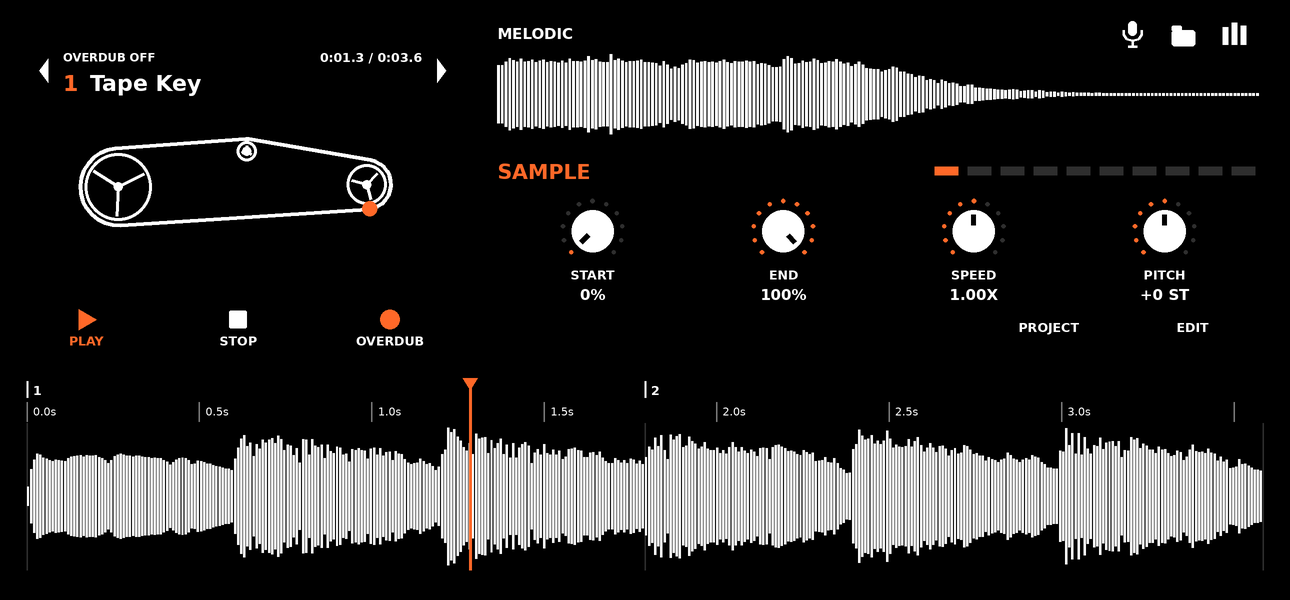
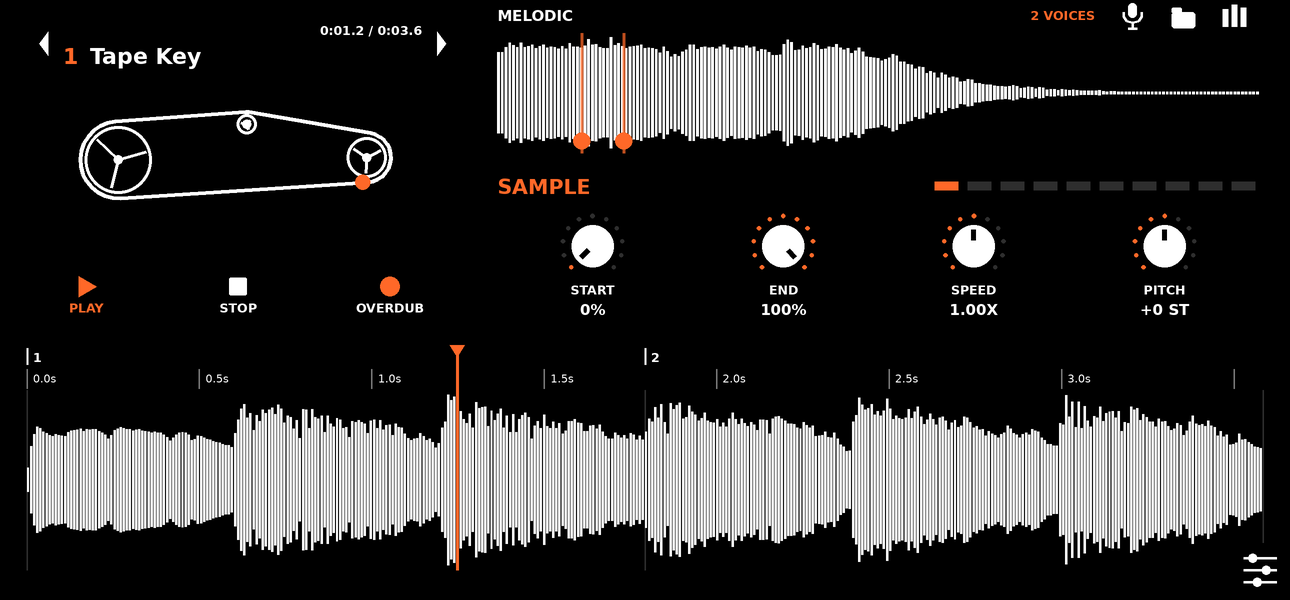
Deck: view-switch pictogram, PROJECT muted, bigger sample view, shrinking voice dots, still tape without a loop; fix: every track gets its settings at start (release); FM-1 page LEDs resent

diff --git a/engine/ui/SamplerUI.cpp b/engine/ui/SamplerUI.cpp
@@ -157,9 +157,10 @@ void SamplerUI::sampleView(Rect r) {
         const float pos = (i + 0.5f) / bins, v = std::min(1.f, pk[(size_t)i] * 1.1f);
         rrect({w.x + i * bw, cy - std::max(1.f, v * (w.h / 2 - 1)), std::max(1.f, bw - 0.6f), std::max(2.f, v * (w.h - 2))}, 0, pos >= ts.start && pos <= ts.end ? kPaper : kLine);
     }
-    for (int j = 0; j < nv; j++) {
-        const float vx = w.x + std::min(1.f, std::max(0.f, st_.voicePos[t][j])) * w.w;
-        line(vx, w.y, vx, w.y + w.h, kOrange, 2);
+    for (int j = 0; j < nv; j++) {   // a voice: a line and a dot that shrink as its envelope dies away
+        const float vx = w.x + std::min(1.f, std::max(0.f, st_.voicePos[t][j])) * w.w, lv = clamp01(st_.voiceLvl[t][j]);
+        line(vx, w.y, vx, w.y + w.h, theme::argb(255, 104, 40, 70 + (int)(185 * lv)), 1 + 1.5f * lv);
+        circle(vx, w.y + w.h - 8, 1.5f + 6.5f * lv, kOrange);
     }
 }
 
@@ -186,7 +187,7 @@ void SamplerUI::cassette(Rect c) {
     const bool recNow = st_.freeRecording || st_.track_clip_rec[t];
     const int mic = app_.micState();
     // label: paper strip with a coloured edge, the sample name, the counter
-    Rect lb{c.x + 4, c.y + 12, c.w - 8, 50};
+    Rect lb{c.x + 4, c.y + 6, c.w - 8, 50};
     std::string title = app_.sampleLabel(t), sub;
     if (title.empty()) title = "EMPTY TRACK";
     if (mic == 1) { title = "WAITING FOR SOUND"; sub = "MICROPHONE  " + num("%.0f DB", 20 * std::log10(app_.micThreshold())); }
@@ -252,7 +253,7 @@ void SamplerUI::cassette(Rect c) {
         }
         x = segs[0].x0; y = segs[0].y0;
     };
-    const float turn = hasLoop ? lp : st_.freeRecording ? std::fmod((float)now_ / 2500.f, 1.f) : 0.f;
+    const float turn = hasLoop ? lp : 0.f;   // without a loop the tape stands still
     const uint32_t tapeCol = recNow ? kOrange : kPaper;
     for (const Seg& g : segs) {
         if (!g.arc) { line(g.x0, g.y0, g.x1, g.y1, tapeCol, 2.5f); continue; }
@@ -330,10 +331,10 @@ void SamplerUI::key(Rect r, const std::string& label, int icon, bool on, std::fu
 void SamplerUI::deck(Rect r) {
     rrect({0, 0, W_, H_}, 0, kBg);
     const bool recOn = st_.freeRecording || st_.track_clip_rec[app_.track()], armed = st_.freeArmed;
-    const float top = 12, ch = 170, cw = std::min(ch * 1.75f, W_ * 0.42f);
+    const float top = 0, ch = 170, cw = std::min(ch * 1.75f, W_ * 0.42f);
     const float cxl = 10, zr = W_ - 20, x0 = cxl + cw + 24, w0 = zr - x0;
     cassette({cxl, top, cw, ch});
-    const float vh = 78;
+    const float vh = 100;
     sampleView({x0, top + 2, w0, vh});
     const float py = top + vh + 24;
     text(x0, py, 15, kOrange, SamplerApp::pageName(app_.page()), 0, true);
@@ -344,15 +345,20 @@ void SamplerUI::deck(Rect r) {
     }
     for (int i = 0; i < 4; i++) knob(x0 + w0 * (i + 0.5f) / 4, py + 40, app_.page(), i);
     // transport under the cassette: PLAY, STOP, REC / OVERDUB; PROJECT and EDIT at the right end of the same row
-    const float ty = 200, kh = 36, tg = 6, tkw = (cw - 2 * tg) / 3;
+    const float ty = top + ch + 8, kh = 36, tg = 6, tkw = (cw - 2 * tg) / 3;
     key({cxl, ty, tkw, kh}, "PLAY", 1, st_.playing, [this] { app_.transportSet(true); }, false);
     key({cxl + tkw + tg, ty, tkw, kh}, "STOP", 4, false, [this] { app_.transportSet(false); }, false);
     key({cxl + 2 * (tkw + tg), ty, tkw, kh}, app_.loopExists() ? "OVERDUB" : "REC", 3, recOn, [this] { app_.loopRecord(); }, false);
     if (armed && (now_ / 400) % 2 == 0) rrect({cxl + 2 * (tkw + tg), ty + kh - 3, tkw, 3}, 0, kOrange);
-    key({zr - 2 * 90 - tg, ty, 90, kh}, "PROJECT", 0, projectOpen_, [this] { projectOpen_ = true; clearArmed_ = 0; }, false);
-    key({zr - 90, ty, 90, kh}, "EDIT", 0, false, [this] { editor_ = true; }, false);
+    // (the PROJECT key is muted for now: projectSheet() stays, nothing opens it)
     const float tl = ty + kh + 10;
     timeline({12, tl, W_ - 24, H_ - 12 - tl});
+    {   // the view switch: a pictogram of sliders in the bottom right corner opens the editor
+        const float sx = W_ - 20, sy = H_ - 20;
+        rrect({sx - 18, sy - 18, 36, 36}, 0, kBg);
+        for (int i = 0; i < 3; i++) { line(sx - 11, sy - 8 + i * 8, sx + 11, sy - 8 + i * 8, kPaper, 1.6f); circle(sx - 5 + (i == 1 ? 9 : i == 2 ? 3 : 0), sy - 8 + i * 8, 3, kPaper); }
+        tap({sx - 28, sy - 28, 56, 56}, [this] { editor_ = true; });
+    }
 }
 
 void SamplerUI::trackList(Rect r) {

diff --git a/engine/tools/test_app.cpp b/engine/tools/test_app.cpp
@@ -18,12 +18,19 @@ int main() {
     const int sr = SAMPLERATE;
     system("rm -rf /tmp/fm1sampler_t2; mkdir -p /tmp/fm1sampler_t2");
     Session s(sr); s.setDataDir("/tmp/fm1sampler_t2"); s.setSampleDir(std::string(getenv("HOME")) + "/fm1-sampler/samples");
-    SamplerApp app(s, [](const uint8_t*, size_t) {});
+    uint64_t ledMask = 0; int ledFrames = 0;   // the last LED frame the FM-1 got (SysEx 01)
+    SamplerApp app(s, [&](const uint8_t* m, size_t n) {   // frames come packed: F0 7D D A W 1 10 { len(2x7bit) cmd payload }... F7
+        if (n < 9 || m[6] != 10) return;
+        for (size_t i = 7; i + 3 < n;) { const size_t sub = (size_t)m[i] << 7 | m[i + 1]; if (sub < 1 || i + 2 + sub > n) break;
+            if (m[i + 2] == 1 && sub == 7) { ledMask = 0; for (int k = 0; k < 6; k++) ledMask |= (uint64_t)(m[i + 3 + k] & 127) << (7 * k); ledFrames++; }
+            i += 2 + sub; }
+    });
     std::vector<float> buf(512), in(512, 0.f), all; uint32_t now = 0;
     auto run = [&](double sec) { for (long i = 0; i < (long)(sec * sr) / 256; i++) { std::fill(buf.begin(), buf.end(), 0.f); s.process(buf.data(), in.data(), 256); std::this_thread::sleep_for(std::chrono::microseconds(200)); all.insert(all.end(), buf.begin(), buf.end()); if (i % 5 == 0) { now += 33; app.tick(now); } } };
     auto rmsFrom = [&](size_t from) { double a = 0; size_t n = 0; for (size_t i = from; i < all.size(); i++) { a += all[i] * all[i]; n++; } return n ? std::sqrt(a / n) : 0.0; };
     auto enc = [&](int i, int d) { uint8_t m[3] = {0xb0, (uint8_t)(16 + i), (uint8_t)(64 + d)}; app.onMidi(m, 3); };
     auto btn = [&](int b) { uint8_t m[3] = {0x91, (uint8_t)b, 100}; app.onMidi(m, 3); m[0] = 0x81; app.onMidi(m, 3); };
+    auto pageLed = [&](int b) { return (ledMask >> b & 1) != 0; };
     auto play = [&](int note, double sec) { size_t m = all.size(); app.playNote(note, true); run(sec); app.playNote(note, false); run(0.3); return rmsFrom(m); };
     run(2.5);
     CHECK(app.hasSample(0) && app.hasSample(1) && app.hasSample(2) && app.hasSample(3), "four default tracks load (%s, %s, %s, %s)", app.sampleLabel(0).c_str(), app.sampleLabel(1).c_str(), app.sampleLabel(2).c_str(), app.sampleLabel(3).c_str());
@@ -74,6 +81,10 @@ int main() {
     app.loopClear(); run(0.3);
     CHECK(!app.loopExists(), "PROJECT menu: clear all loops");
     { bool any = false; for (int t = 0; t < 8; t++) any |= app.status().track_has_clip[t]; CHECK(!any, "...and every other track's loop"); }
+    { constexpr int FXB = SamplerApp::FX, ENVB = SamplerApp::ENV;
+      btn(FXB); run(0.6); const bool fx1 = pageLed(FXB) && !pageLed(SamplerApp::HOME);
+      btn(ENVB); run(0.6); CHECK(fx1 && pageLed(ENVB) && !pageLed(FXB), "FM-1 LEDs: pressing another page button moves the light (ENV lit, FX dark)");
+      const int before = ledFrames; ledMask = 0; run(1.0); CHECK(ledFrames > before && pageLed(ENVB), "FM-1 LEDs are resent periodically (the firmware may clear them)"); }
     // microphone sample
     btn(SamplerApp::SAVE);
     enc(2, 1); run(0.3); CHECK(app.micState() == 1, "mic sampling waits for sound");

diff --git a/engine/session/Session.cpp b/engine/session/Session.cpp
@@ -84,7 +84,7 @@ struct Session::Impl {
     std::atomic<int> a_bars{4}, a_sampleState{0}, a_sampleTrack{0}, a_sampleVersion{0}, a_sampleFails{0};
     std::atomic<int32_t> a_loop{0};
     std::atomic<float> a_clipPos{0.f}, a_lfo[kTracks];
-    std::atomic<int> a_voiceN[kTracks]; std::atomic<float> a_voicePos[kTracks][kVoiceMax];
+    std::atomic<int> a_voiceN[kTracks]; std::atomic<float> a_voicePos[kTracks][kVoiceMax], a_voiceLvl[kTracks][kVoiceMax];
 
     std::vector<float> bus, tmp, sendBus[2], wet;
 
@@ -306,8 +306,8 @@ struct Session::Impl {
                     if (e.vel) t.sampler->noteOn(e.note, e.vel); else t.sampler->noteOff(e.note);
                 }
                 if (cur < n) t.sampler->render(bus.data() + 2 * cur, n - cur);
-                float vp[kVoiceMax]; const int vn = t.sampler->voicePositions(vp, kVoiceMax);
-                for (int i = 0; i < vn; i++) a_voicePos[ti][i].store(vp[i]);
+                float vp[kVoiceMax], vl[kVoiceMax]; const int vn = t.sampler->voicePositions(vp, kVoiceMax, vl);
+                for (int i = 0; i < vn; i++) { a_voicePos[ti][i].store(vp[i]); a_voiceLvl[ti][i].store(vl[i]); }
                 a_voiceN[ti].store(vn);
             } else a_voiceN[ti].store(0);
             if (t.filtOn) for (int i = 0; i < n; i++) { bus[2 * i] = t.filt.process(0, bus[2 * i]); bus[2 * i + 1] = t.filt.process(1, bus[2 * i + 1]); }
@@ -593,7 +593,7 @@ Session::Status Session::status() const {
         s.track_peak[i] = d->tracks[(size_t)i]->peak;
         s.track_has_clip[i] = cm >> i & 1; s.track_clip_rec[i] = rm >> i & 1;
         s.clipPos[i] = d->a_clipPos; s.lfoValue[i] = d->a_lfo[i];
-        s.voiceN[i] = std::min(kVoiceMax, d->a_voiceN[i].load()); for (int j = 0; j < s.voiceN[i]; j++) s.voicePos[i][j] = d->a_voicePos[i][j];
+        s.voiceN[i] = std::min(kVoiceMax, d->a_voiceN[i].load()); for (int j = 0; j < s.voiceN[i]; j++) { s.voicePos[i][j] = d->a_voicePos[i][j]; s.voiceLvl[i][j] = d->a_voiceLvl[i][j]; }
     }
     s.freeRecording = d->a_free; s.freeArmed = d->a_freeArmed; s.freeSeconds = d->a_freeSec;
     s.sampleState = d->a_sampleState; s.sampleTrack = d->a_sampleTrack; s.sampleSeconds = d->a_sampleSec; s.inputPeak = d->a_inPeak;

diff --git a/engine/app/SamplerApp.cpp b/engine/app/SamplerApp.cpp
@@ -383,6 +383,7 @@ void SamplerApp::onSysex(const uint8_t* m, size_t n) {
     else if (m[6] == 0x42) needClear_ = true;     // the firmware had its own screen up: repaint everything
 }
 void SamplerApp::button(int b, bool down) {
+    lastLed_ = ~0ull;   // the firmware's own LED handling must not win: the active page stays lit, the others go dark
     if (down) held_ |= 1u << b; else held_ &= ~(1u << b);
     if (b == SAVE) {   // only the LOOP page: saving and clearing loops lives in the phone's PROJECT menu
         if (down) page_ = P_SAVE;
@@ -429,7 +430,7 @@ void SamplerApp::tick(uint32_t now) {
     if (auditionAt_ && now >= auditionAt_) loadEntry(libCursor_);
     if (st_.sampleVersion != lastSampleVersion_) {   // a sample landed on a track: give it this track's settings
         lastSampleVersion_ = st_.sampleVersion;
-        applyAll(st_.sampleTrack);
+        for (int i = 0; i < kTracks; i++) if (hasSample(i)) applyAll(i);   // several samples can land between two ticks (start-up): every track gets its settings, not only the last
         if (previewAfterLoad_ && st_.sampleTrack == track_) { previewAfterLoad_ = false; previewNote_ = 60; previewTrack_ = track_; s_.noteOn(track_, 60, 100); previewOffAt_ = now + 900; }
     }
     if (st_.sampleFails != lastSampleFails_) { lastSampleFails_ = st_.sampleFails; say("COULD NOT LOAD THE FILE"); }
@@ -528,11 +529,11 @@ void SamplerApp::leds() {
         if (note < 0 || note > 127) on = false;
         if (on) m |= 1ull << (14 + k);
     }
-    if (m == lastLed_) return;
-    lastLed_ = m;
+    if (m == lastLed_ && nowMs_ - ledAt_ < 400) return;
+    lastLed_ = m; ledAt_ = nowMs_;
     std::vector<uint8_t> p(6);
     for (int i = 0; i < 6; i++) p[i] = (uint8_t)(m >> (7 * i) & 127);
-    sysex(1, p);
+    sysex(1, p, true, 900);   // keyed: a newer state replaces an older one still waiting in the queue
 }
 
 // ---- screen ----

diff --git a/engine/tools/phone_render.cpp b/engine/tools/phone_render.cpp
@@ -51,7 +51,7 @@ int main(int argc, char** argv) {
     tab(8); ui.frame(now); dump("loop");
     tab(9); ui.frame(now); dump("len");
     tab(0);
-    app.playNote(60, true); app.playNote(67, true); run(0.5); ui.frame(now); dump("voices"); app.playNote(60, false); app.playNote(67, false); run(0.3);
+    app.playNote(60, true); app.playNote(67, true); run(0.5); ui.frame(now); dump("voices"); ui.setEditor(false); ui.frame(now); dump("deck_voices"); ui.setEditor(true); app.playNote(60, false); app.playNote(67, false); run(0.3);
     tapAt(60, 100); run(1.0); ui.frame(now); dump("track2");
     app.micSample(); in.assign(512, 0.01f); run(0.4); ui.frame(now); dump("mic_wait");
     { double ph = 0; for (long i = 0; i < 3 * sr / 256; i++) { for (int k = 0; k < 256; k++) { double env = 0.15 + 0.6 * std::fabs(std::sin(i * 256.0 / sr * 2.2)); float v = (float)(env * std::sin(ph)); ph += 0.05; in[2 * k] = in[2 * k + 1] = v; } std::fill(buf.begin(), buf.end(), 0.f); s.process(buf.data(), in.data(), 256); std::this_thread::sleep_for(std::chrono::microseconds(200)); if (i % 5 == 0) { now += 33; app.tick(now); } } }

diff --git a/engine/dsp/Sampler.cpp b/engine/dsp/Sampler.cpp
@@ -150,15 +150,15 @@ float Sampler::orginalPosOf(const Voice& v) const {
     return clampf((float)(pos / orig_->frames), 0.f, 1.f);
 }
 
-int Sampler::voicePositions(float* out, int maxN) const {
+int Sampler::voicePositions(float* out, int maxN, float* level) const {
     int n = 0;
     for (auto& v : voices_) {
         if (!v.on || n >= maxN) continue;
         if (mode_ == GRAIN) {
             for (auto& g : v.grain) if (g.on && n < maxN) {
-                Voice tmp = v; tmp.pos = g.pos; out[n++] = orginalPosOf(tmp);
+                Voice tmp = v; tmp.pos = g.pos; if (level) level[n] = v.env.level * std::sin(3.14159265f * std::min(1.f, (float)g.age / (float)std::max(1, g.len))); out[n++] = orginalPosOf(tmp);
             }
-        } else out[n++] = orginalPosOf(v);
+        } else { if (level) level[n] = v.env.level * v.vel; out[n++] = orginalPosOf(v); }
     }
     return n;
 }

diff --git a/engine/session/Session.h b/engine/session/Session.h
@@ -35,7 +35,7 @@ public:
         int sampleFails;         // bumps when a sample could not be loaded
         float clipPos[kTracks];  // 0..1 read position of the loops (follows the loop speed)
         float lfoValue[kTracks]; // -1..1, for the UI
-        int voiceN[kTracks]; float voicePos[kTracks][kVoiceMax];   // sounding voices (every grain in granular mode): read positions 0..1 of the whole sample
+        int voiceN[kTracks]; float voicePos[kTracks][kVoiceMax], voiceLvl[kTracks][kVoiceMax];   // + their envelope levels (a voice shrinks as it dies away)   // sounding voices (every grain in granular mode): read positions 0..1 of the whole sample
     };
     struct Lfo { float rate = 1.f, depth = 0.f, base = 0.5f; int target = 0 /*0 pitch 1 filter 2 volume 3 pan*/, shape = 0 /*0 sine 1 tri 2 square 3 s&h*/; };
 

diff --git a/engine/app/SamplerApp.h b/engine/app/SamplerApp.h
@@ -154,7 +154,7 @@ private:
     uint32_t gap_ = 16, lastSend_ = 0, lastPing_ = 0, lastLoss_ = 0, lastRaise_ = 0, dropped_ = 0, healAt_ = 0, lastDraw_ = 0, nowMs_ = 0;
     bool haveDropBase_ = false, needClear_ = true, needResend_ = false, linkSeen_ = false;
     int pingId_ = 0, healCursor_ = 0;
-    uint64_t lastLed_ = ~0ull;
+    uint64_t lastLed_ = ~0ull; uint32_t ledAt_ = 0;   // the firmware may light / clear a button LED by itself when it is pressed: resend after every button event and every 400 ms
     int knobMsb_ = 0;
     int heldNote_[128];
     int keyNotes_[128][3] = {}; int keyCount_[128] = {};

diff --git a/engine/dsp/Sampler.h b/engine/dsp/Sampler.h
@@ -42,7 +42,7 @@ public:
     void noteOff(int note);
     void allOff();
     void render(float* out /*stereo, added*/, int n);
-    int voicePositions(float* out, int maxN) const;   // read positions 0..1 of the original sample
+    int voicePositions(float* out, int maxN, float* level = nullptr) const;   // read positions 0..1 of the original sample
     bool hasVoices() const;
 
 private:
